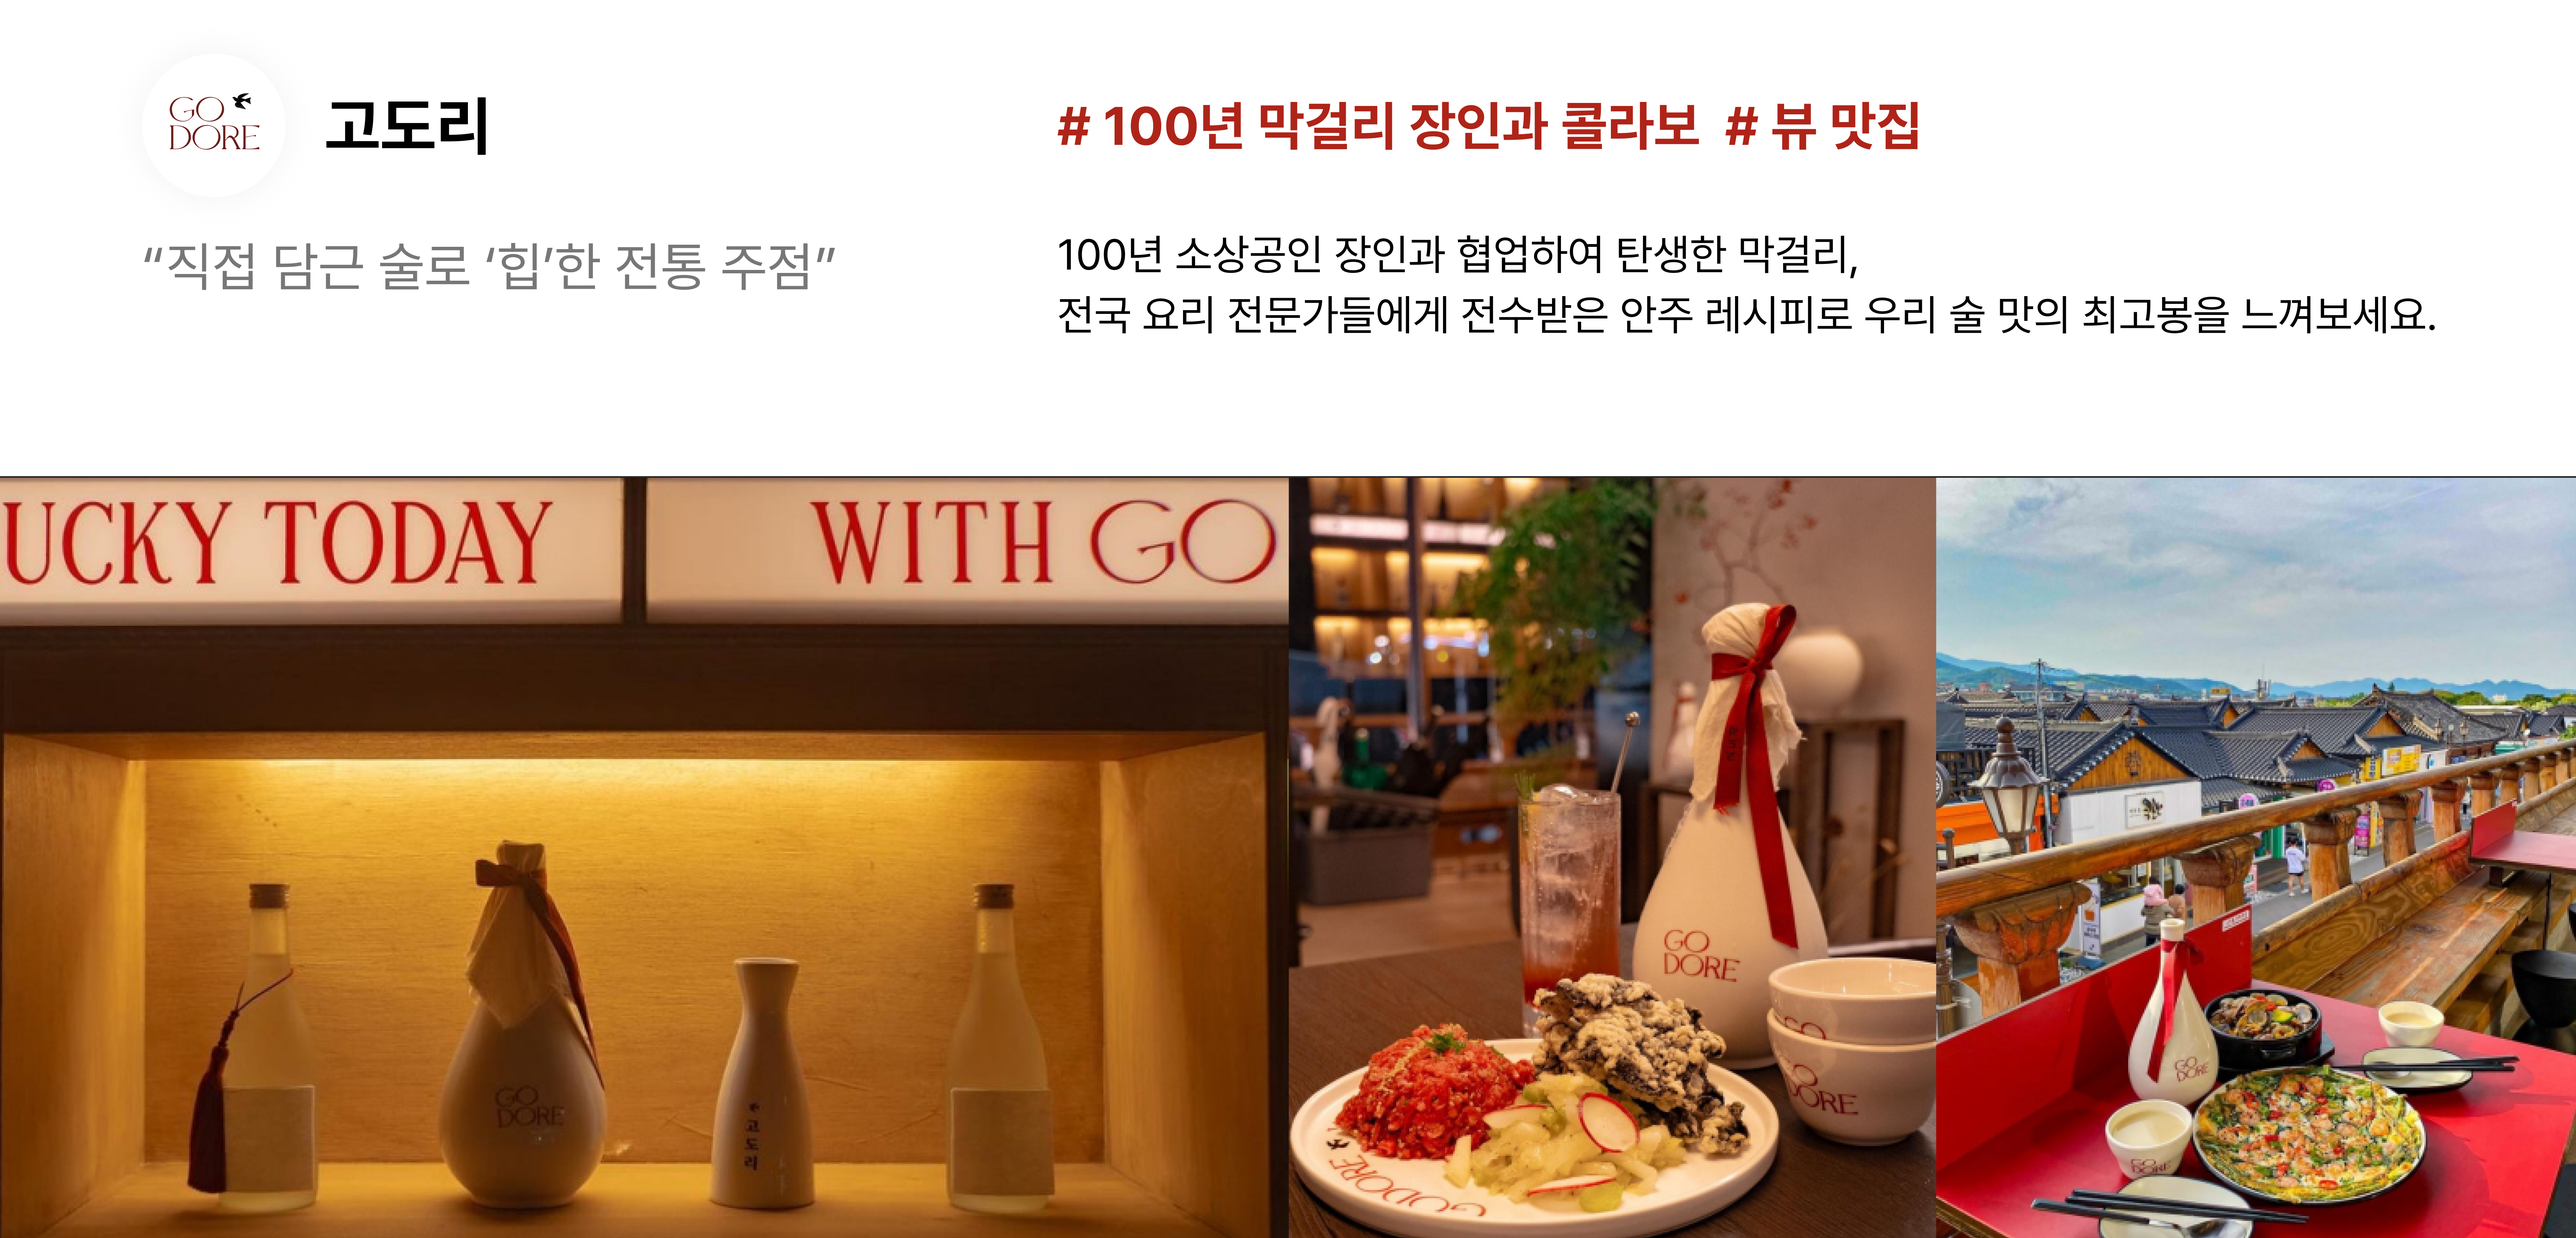
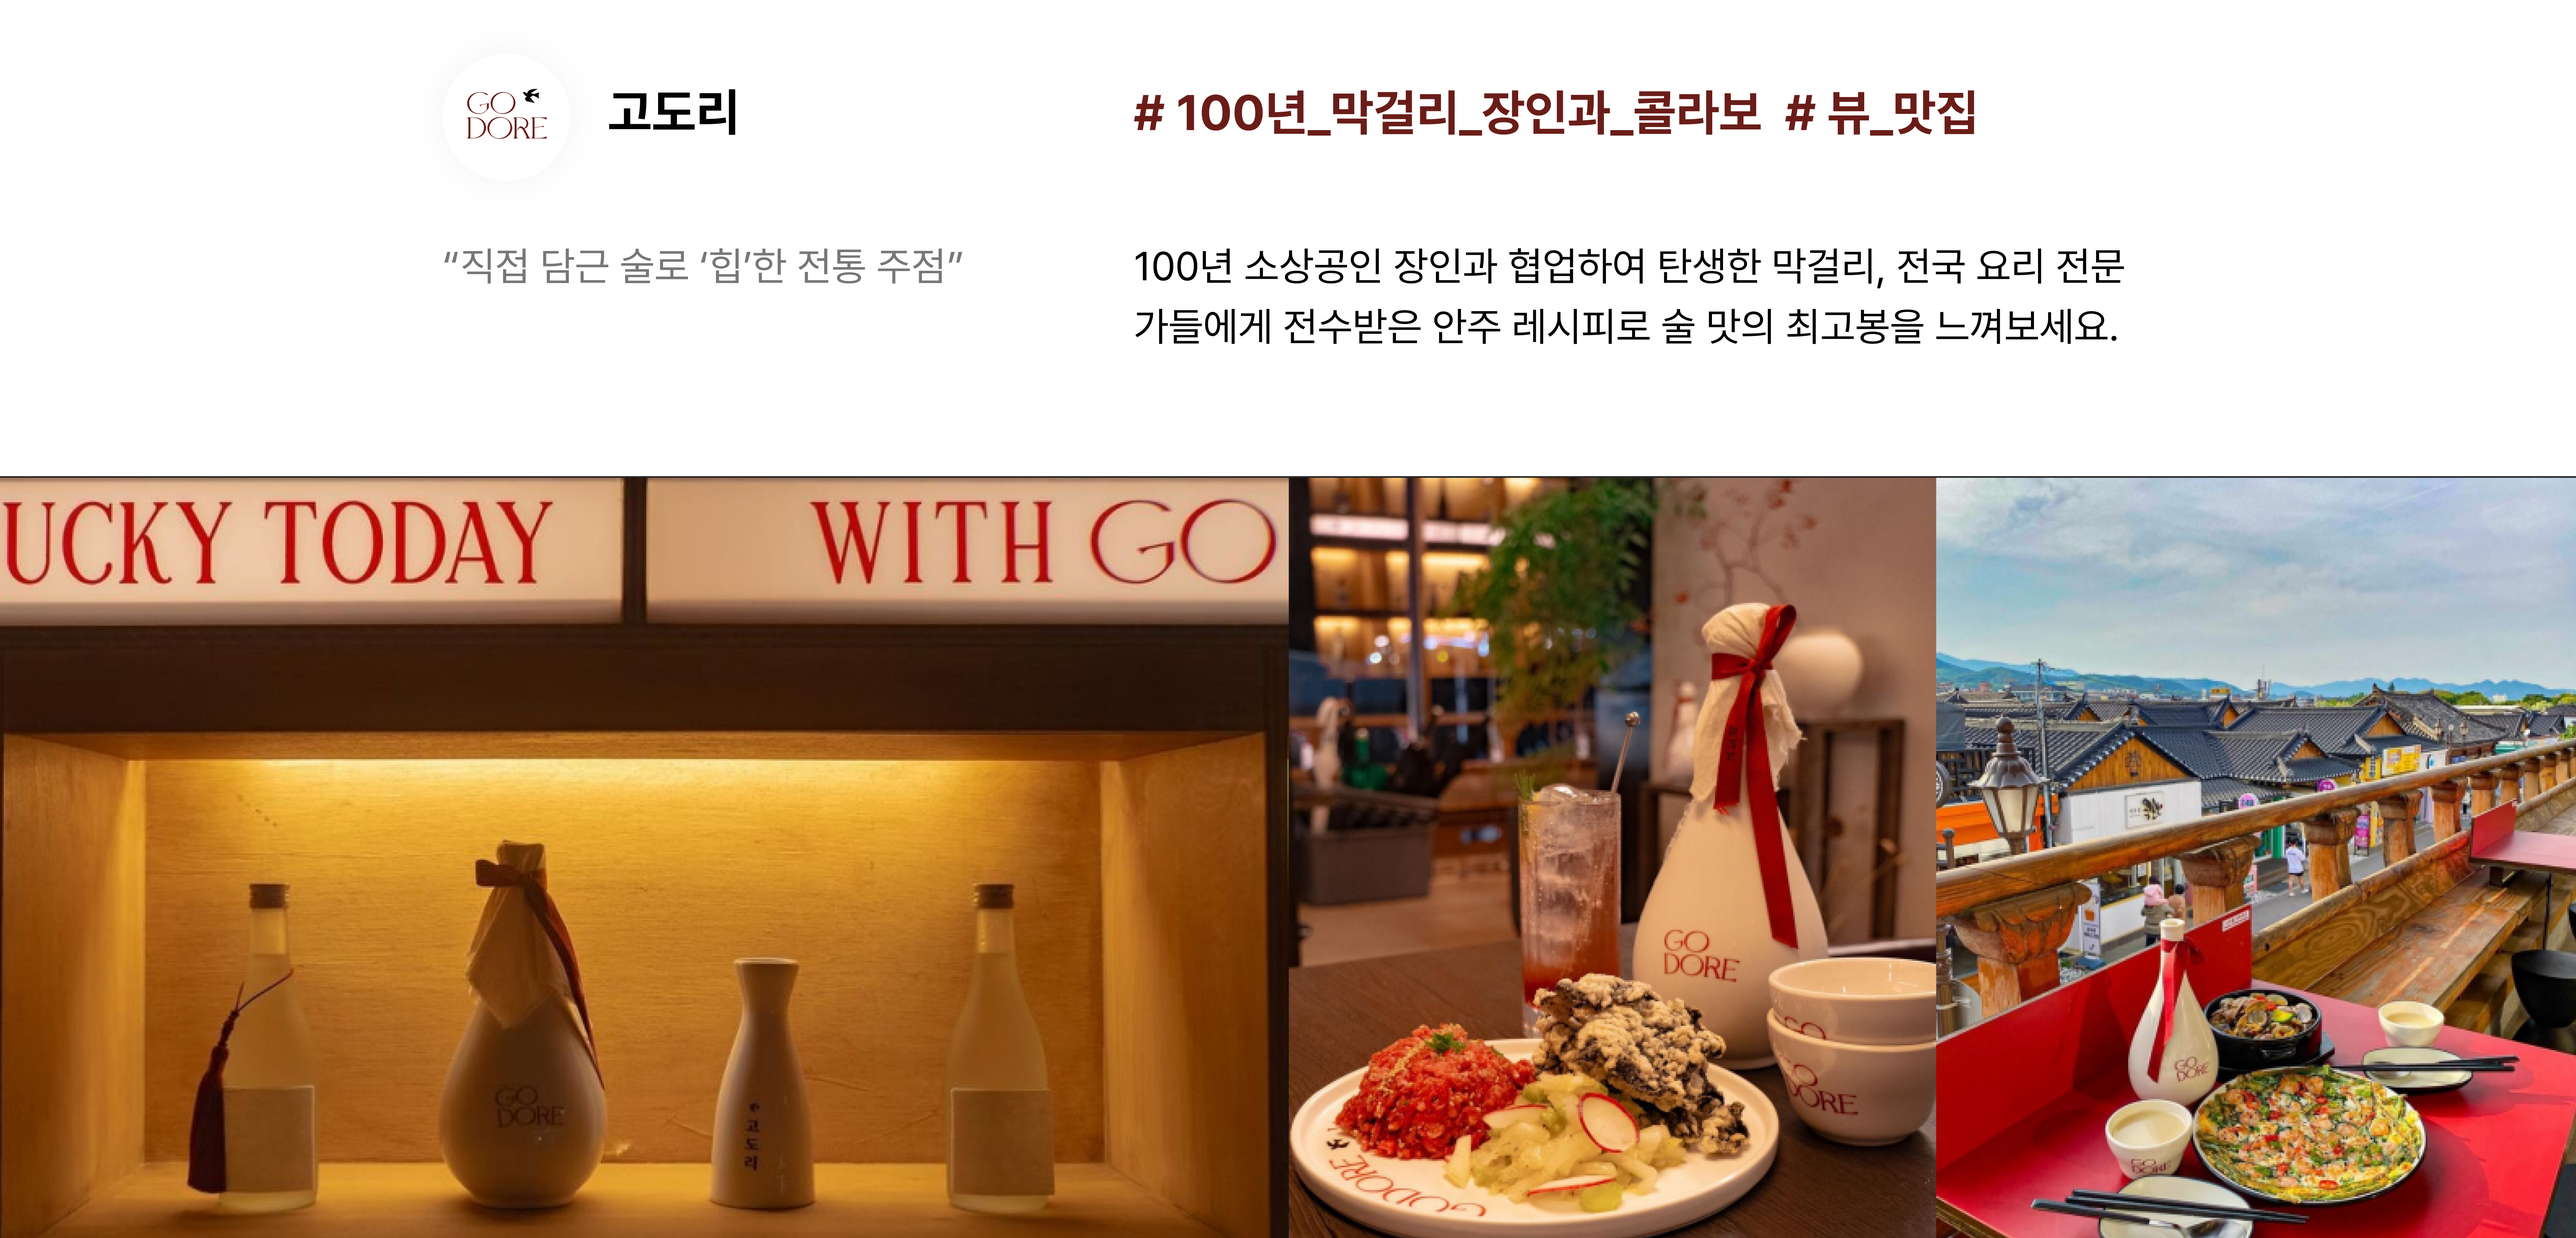
브랜드 소개 수정 중

diff --git a/lib/brand.dart b/lib/brand.dart
@@ -28,8 +28,7 @@ class _BrandPageState extends State<BrandPage> {
         shrinkWrap: true,
         children: <Widget>[
           Padding(
-              padding:
-                  const EdgeInsets.symmetric(horizontal: 330, vertical: 80),
+              padding: const EdgeInsets.only(left: 330, right: 330, top: 80),
               child: Column(
                 crossAxisAlignment: CrossAxisAlignment.start,
                 children: [
